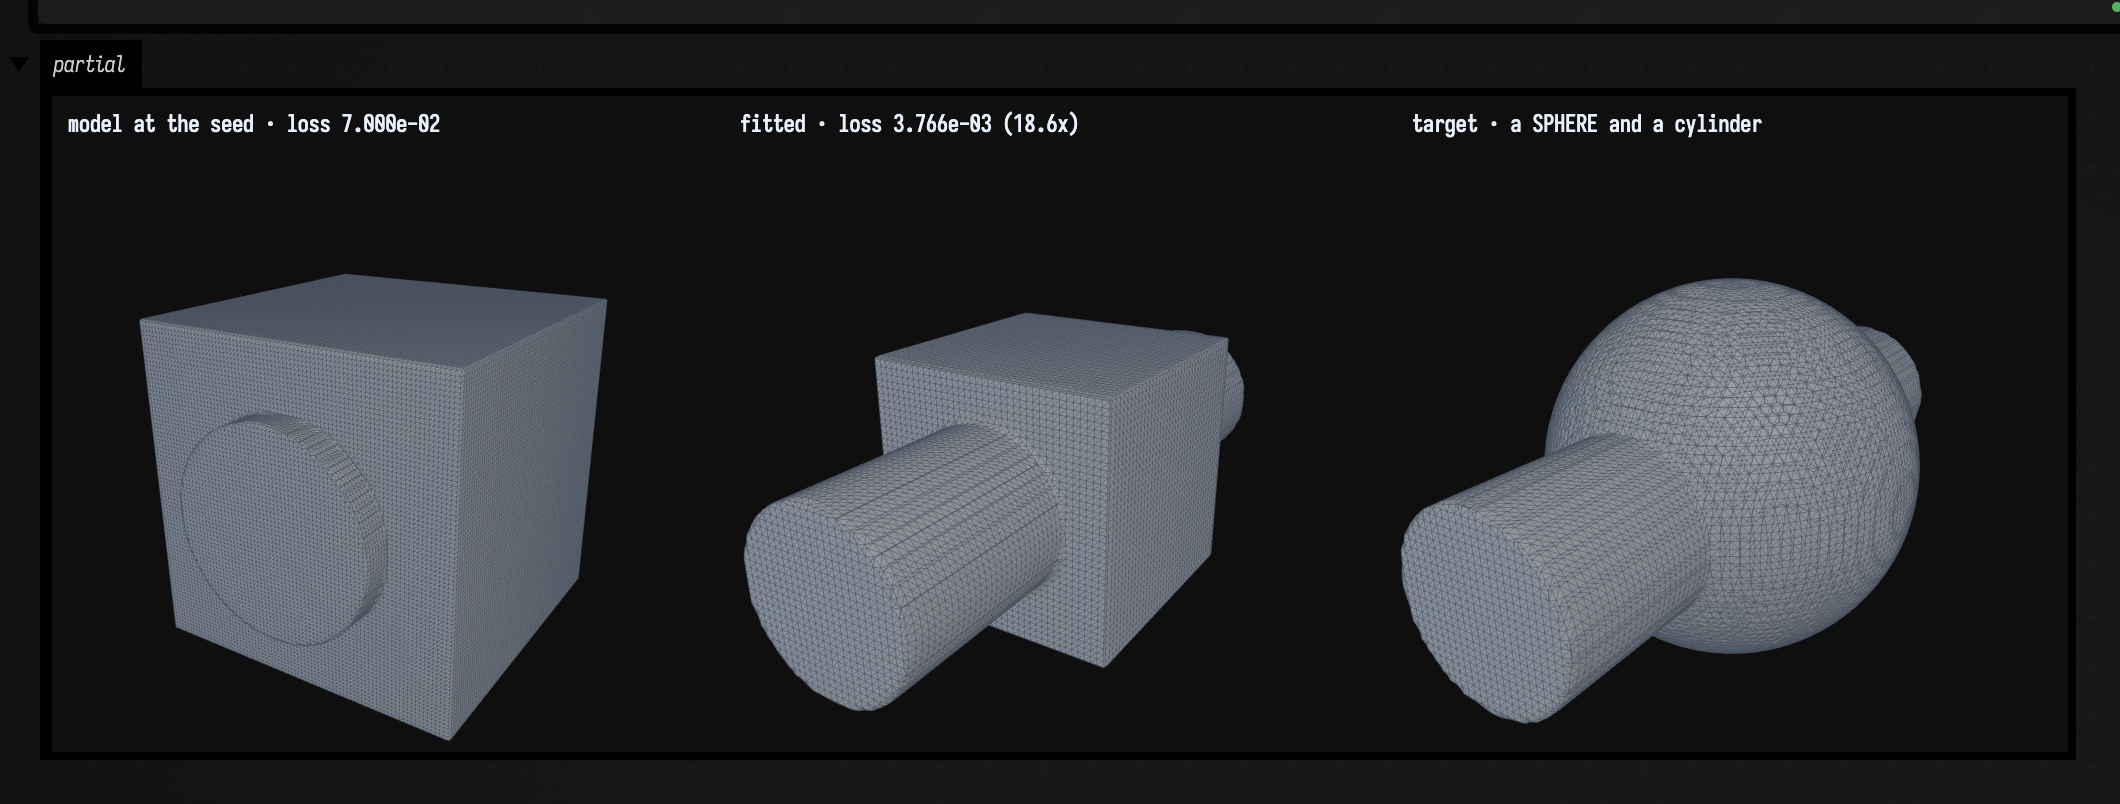
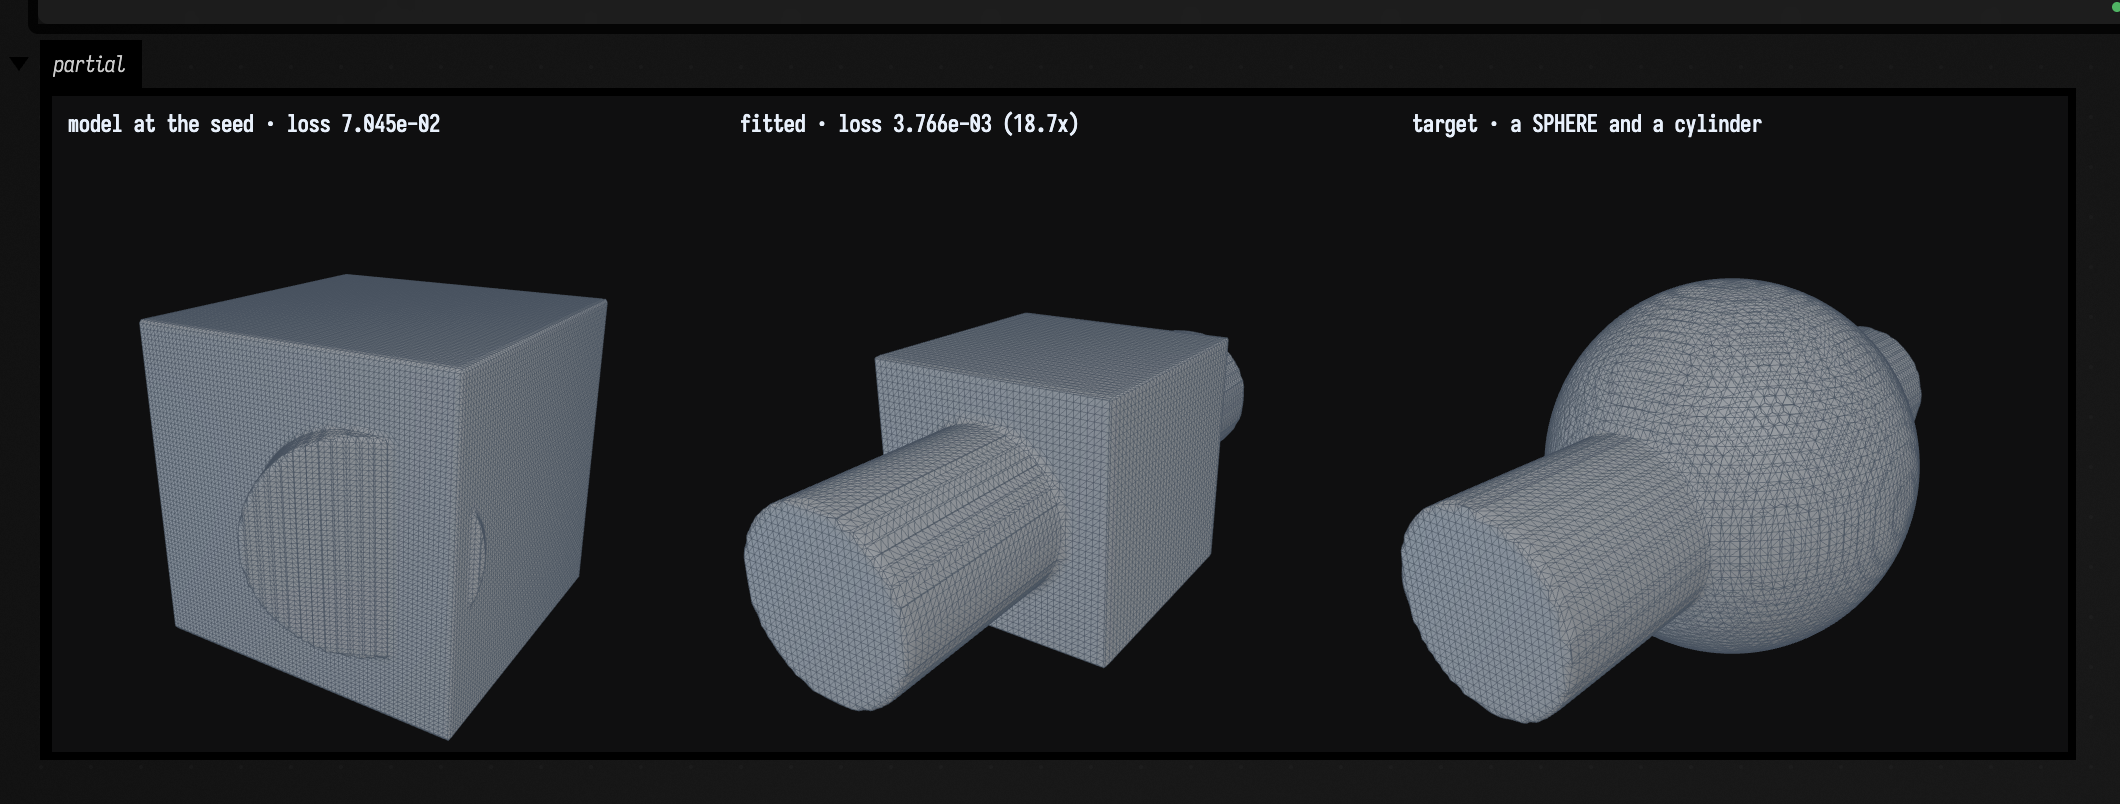
feat(solidsl): make the bar's tilt a fourth fitted parameter
The seed panel was uninformative -- an oversized cube with the rod buried
inside it, showing as a circular smudge -- and the fit had nothing in it that
was not a size. Both are fixed by the same change: the model's cylinder gains a
Y rotation, seeded 25 degrees off, and the gradient has to bring it back.

It does, to -0.009525 degrees against a true 0. So three of the four parameters
now recover -- height 0.13% out, radius 0.48% out, tilt a hundredth of a degree
-- and one still cannot, which sharpens the point of the section rather than
diluting it: the report prints four numbers identically and three of them are
measurements.

Two things measured on the way, both in the page:

- The tilt costs NOTHING at the optimum. The four-parameter residual is
  3.766267e-03 against the three-parameter 3.766271e-03 -- the same to six
  figures. A parameter that can be recovered is free once it has been; the
  residual is paid entirely by the cube.

- It costs about 10x the ITERATIONS: 4176 against 387. At iterations = 1200
  the fit stopped on `max iterations` with `barTilt 25.000000 -> 5.752590`,
  which is not a stall and not a local minimum -- 19.25 degrees in 1200 steps
  is exactly ADAM's step cap times the iteration count. `SolidFitOptions`
  carries ONE learningRate, and an angle in degrees has ~25x the natural scale
  of a size in units, so it walks 25x slower in proportional terms. That is
  worth knowing before reaching for a different optimizer, and it is now an
[…]

diff --git a/src/jvmTest/kotlin/afield/solidsl/SolidSLPartialRecoveryTest.kt b/src/jvmTest/kotlin/afield/solidsl/SolidSLPartialRecoveryTest.kt
@@ -46,12 +46,17 @@ class SolidSLPartialRecoveryTest {
 
         val target = truth.sampleField(count = 3000, seed = 17)
 
-        val model = (cuboid(1.0) + cylinder(1.0, 1.0)).parameterize {
+        val model = (cuboid(1.0) + cylinder(1.0, 1.0).turned(y = 1.0)).parameterize {
             // One parameter drives all three of the cuboid's extents, so the box stays a cube and
             // cannot cheat by growing into a sphere-ish slab.
             param("cubeSize") { it.node == "Cuboid" }
             param("barHeight") { it.node == "Cylinder" && it.field == "height" }
             param("barRadius") { it.node == "Cylinder" && it.field.startsWith("radius") }
+            // The fourth, and the only one that is an ANGLE. The target's cylinder is axis-aligned,
+            // so the truth here is 0 degrees -- but the loss cannot tell 0 from 180, because a
+            // cylinder is symmetric under a half turn. That is a property of the shape, not a defect
+            // in the fit, and it is why the assertion below is modulo 180.
+            param("barTilt") { it.node == "Rotate" && it.field == "y" }
         }.orThrow()
 
         // The seed matters more here than in a recovery fit, and not for convergence-speed
@@ -61,13 +66,13 @@ class SolidSLPartialRecoveryTest {
         // and reported `cubeSize 0.400000 -> 0.400000`: not slow, not stuck, simply invisible to
         // the loss. So the cube starts *outside* its own admissible interval and has to come down
         // into it, which also means the descent has to move it to succeed.
-        val seed = doubleArrayOf(1.35, 1.60, 0.42)
+        val seed = doubleArrayOf(1.35, 1.60, 0.42, 25.0)
         val fit = model.fitParameters(
             target,
             seed,
             // Hard edges meeting a union make a piecewise-smooth landscape; the line search stalls
             // on it and reports convergence. Same lesson as SolidSLApproximationTest.
-            SolidFitOptions(method = OptimizeMethod.ADAM, iterations = 1200, learningRate = 0.015),
+            SolidFitOptions(method = OptimizeMethod.ADAM, iterations = 6000, learningRate = 0.015),
         )
 
         println(fit.report())
@@ -77,12 +82,16 @@ class SolidSLPartialRecoveryTest {
         val gotCube = named.getValue("cubeSize")
         val gotHeight = named.getValue("barHeight")
         val gotRadius = named.getValue("barRadius")
+        val gotTilt = named.getValue("barTilt")
+        // A cylinder is symmetric under a half turn, so 0 and 180 are the same shape.
+        val tiltError = kotlin.math.abs(((gotTilt % 180.0) + 180.0) % 180.0).let { minOf(it, 180.0 - it) }
 
         val inscribed = 2.0 * sphereRadius / sqrt(3.0)
         val circumscribed = 2.0 * sphereRadius
         println(
             "  cylinder truth   height %.6f radius %.6f".format(barHeight, barRadius) +
                 "\n  cylinder fitted  height %.6f radius %.6f".format(gotHeight, gotRadius) +
+                "\n  tilt truth 0 deg, fitted %.6f deg (error %.6f deg, mod 180)".format(gotTilt, tiltError) +
                 "\n  cube             fitted %.6f, admissible [%.6f, %.6f]".format(gotCube, inscribed, circumscribed) +
                 "\n  residual rms     %.6e  (%.3f%% of the target's longest extent)"
                     .format(fit.rmsError, 100.0 * fit.rmsError / barHeight)
@@ -116,6 +125,10 @@ class SolidSLPartialRecoveryTest {
         assertTrue(
             kotlin.math.abs(gotRadius - barRadius) < 0.02,
             "barRadius recovered as $gotRadius against a true $barRadius",
+        )
+        assertTrue(
+            tiltError < 3.0,
+            "barTilt recovered as $gotTilt deg, ${tiltError} deg from axis-aligned (mod 180)",
         )
 
         // 5. The counterfactual, measured in this run. Floored at 12x against a measured 18.6x:

diff --git a/public/docs/solid_notation.md b/public/docs/solid_notation.md
@@ -600,26 +600,28 @@ length achieves that.
 val truth  = sphere(0.62) + cylinder(2.20, 0.28)
 val target = truth.sampleField(count = 3000, seed = 17)
 
-val model = (cuboid(1.0) + cylinder(1.0, 1.0)).parameterize {
+val model = (cuboid(1.0) + cylinder(1.0, 1.0).turned(y = 1.0)).parameterize {
     param("cubeSize")  { it.node == "Cuboid" }                                  // one number, all three extents
     param("barHeight") { it.node == "Cylinder" && it.field == "height" }
     param("barRadius") { it.node == "Cylinder" && it.field.startsWith("radius") }
+    param("barTilt")   { it.node == "Rotate" && it.field == "y" }               // an ANGLE, in degrees
 }.orThrow()
 
 val fit = model.fitParameters(
     target,
-    start = doubleArrayOf(1.35, 1.60, 0.42),
-    SolidFitOptions(method = OptimizeMethod.ADAM, iterations = 1200, learningRate = 0.015),
+    start = doubleArrayOf(1.35, 1.60, 0.42, 25.0),
+    SolidFitOptions(method = OptimizeMethod.ADAM, iterations = 6000, learningRate = 0.015),
 )
 
 fit.report()
-// fit 3 parameter(s) in 387 iterations (gradient)
-//   cubeSize           1.350000  ->      0.855280
-//   barHeight          1.600000  ->      2.197219
-//   barRadius          0.420000  ->      0.281340
-//   loss           6.999584e-02  ->  3.766271e-03
-//   rms distance   2.645673e-01  ->  6.136995e-02
-//   improvement    18.58x
+// fit 4 parameter(s) in 4176 iterations (gradient)
+//   cubeSize           1.350000  ->      0.855279
+//   barHeight          1.600000  ->      2.197225
+//   barRadius          0.420000  ->      0.281335
+//   barTilt           25.000000  ->     -0.009525
+//   loss           7.044887e-02  ->  3.766267e-03
+//   rms distance   2.654221e-01  ->  6.136992e-02
+//   improvement    18.71x
 ```
 
 And the picture, because "the cylinder matches and the cube does not" is a claim about shapes:
@@ -633,16 +635,17 @@ import afield.stdlib.OptimizeMethod
 val truth = sphere(0.62) + cylinder(2.20, 0.28)
 val target = truth.sampleField(count = 3000, seed = 17)
 
-val model = (cuboid(1.0) + cylinder(1.0, 1.0)).parameterize {
+val model = (cuboid(1.0) + cylinder(1.0, 1.0).turned(y = 1.0)).parameterize {
     param("cubeSize") { it.node == "Cuboid" }
     param("barHeight") { it.node == "Cylinder" && it.field == "height" }
     param("barRadius") { it.node == "Cylinder" && it.field.startsWith("radius") }
+    param("barTilt") { it.node == "Rotate" && it.field == "y" }
 }.orThrow()
 
-val seed = doubleArrayOf(1.35, 1.60, 0.42)
+val seed = doubleArrayOf(1.35, 1.60, 0.42, 25.0)
 val fit = model.fitParameters(
     target, seed,
-    SolidFitOptions(method = OptimizeMethod.ADAM, iterations = 1200, learningRate = 0.015),
+    SolidFitOptions(method = OptimizeMethod.ADAM, iterations = 6000, learningRate = 0.015),
 )
 println(fit.report())
 
@@ -660,30 +663,51 @@ threeGrid(
 )
 ```
 
-![Three panels in a row, flat grey wireframe on a dark background. Left, labelled "model at the seed, loss 7.000e-02", a large cube so much bigger than its rod that the rod does not emerge — it shows only as a circular outline on the cube's front face. Middle, labelled "fitted, loss 3.766e-03 (18.6x)", a smaller cube with a rod passing right through it and protruding well beyond. Right, labelled "target, a SPHERE and a cylinder", a sphere with a rod of visibly the same length and thickness as the middle panel's, so the two rods match while one body is a cube and the other is a sphere](assets/solid_notation/partial.png)
+![Three panels in a row, flat grey wireframe on a dark background. Left, labelled "model at the seed, loss 7.045e-02", a large cube with its rod almost entirely buried inside it — the rod shows only as a slanted outline on the cube's front face, tilted about 25 degrees off the axis. Middle, labelled "fitted, loss 3.766e-03 (18.7x)", a smaller cube with the rod now square to it, passing right through and protruding well beyond. Right, labelled "target, a SPHERE and a cylinder", a sphere with a rod of visibly the same length, thickness and orientation as the middle panel's, so the two rods match while one body is a cube and the other is a sphere](assets/solid_notation/partial.png)
 
 Compare the rods: same length, same thickness, in the middle and right panels. Then compare the
 bodies: a cube and a sphere, and no amount of further descent changes that.
 
-The cylinder recovered: `2.197219` against a true `2.20`, and `0.281340` against a true `0.28` —
-0.13% and 0.48% out. The cube settled at `0.855280`, and there is no truth to compare that against,
+The cylinder recovered on all three of its numbers: `2.197225` against a true `2.20` and
+`0.281335` against a true `0.28` — 0.13% and 0.48% out — and `barTilt`, seeded a full **25° off**,
+came back to `-0.009525°`. The cube settled at `0.855279`, and there is no truth to compare that against,
 because there is no side length that makes a cube a sphere. What there is instead is a bound: a cube
 that fits a sphere of radius `R` at all has a side between the inscribed cube's `2R/√3 = 0.7159` and
 the circumscribed cube's `2R = 1.2400`. `0.855280` sits inside that interval, nearer the inscribed
 end — which is what a least-squares fit on a *field* should do, since the sphere's field is closer to
 the inscribed cube's over most of the sampled volume than to the circumscribed one's.
 
+Worth noticing what the tilt costs at the optimum: **nothing**. The four-parameter fit's residual,
+`3.766267e-03`, is the three-parameter fit's `3.766271e-03` to six figures. A parameter that *can* be
+recovered is free once it has been; the residual is paid entirely by the one that cannot.
+
 **The residual is `3.77e-03`, not `4.6e-22`.** Nineteen orders of magnitude, and that gap is the
 whole difference between the two problems: the first loss went to zero because zero was reachable,
 this one stopped at 2.79% of the target's longest extent because that is as close as a cube gets to
 a sphere. Both descents converged. Only one of them was right.
 
-Which is the point, and it is uncomfortable: **the report does not tell you which of its three
-numbers to believe.** `cubeSize`, `barHeight` and `barRadius` are printed identically, and two are
-measurements while the third is a negotiation. Nothing in the loss distinguishes them. What
+Which is the point, and it is uncomfortable: **the report does not tell you which of its four
+numbers to believe.** `cubeSize`, `barHeight`, `barRadius` and `barTilt` are printed identically, and
+three are measurements while the fourth is a negotiation. Nothing in the loss distinguishes them. What
 distinguishes them is knowing that half your model can represent half your target — and if you do
 not know that, a plausible number is what you get. `SolidSLPartialRecoveryTest` asserts both halves
 separately for exactly this reason: the cylinder against its truth, the cube against its interval.
+
+??? aside "Why this fit needs 6000 iterations when the recovery fit needed 14"
+
+    `barTilt` is measured in **degrees** and everything else is measured in **units of the shape**,
+    and `SolidFitOptions` carries one `learningRate` for all of them. ADAM's step is bounded by that
+    rate, so a parameter whose natural scale is ~25 moves at the same ~0.015 per iteration as one
+    whose natural scale is ~1. At `iterations = 1200` this fit stopped on `max iterations` with
+    `barTilt 25.000000 -> 5.752590`: not stalled, not stuck in a local minimum, simply still walking
+    — 19.25° in 1200 steps is exactly the step cap times the iteration count. At 6000 it converges on
+    the gradient tolerance in 4176.
+
+    So the cost of the angle is about **10x the iterations** of the same fit without it (4176 against
+    387), and none of that is the rotation being non-convex — which it also is, but that is not what
+    was happening here. If you add an angle to a fit and it seems to stall, check the arithmetic
+    before you change optimizer: `iterations x learningRate` against the distance the parameter has
+    to travel.
 
 !!! note "A cube that never enters the union has no gradient at all"
 
